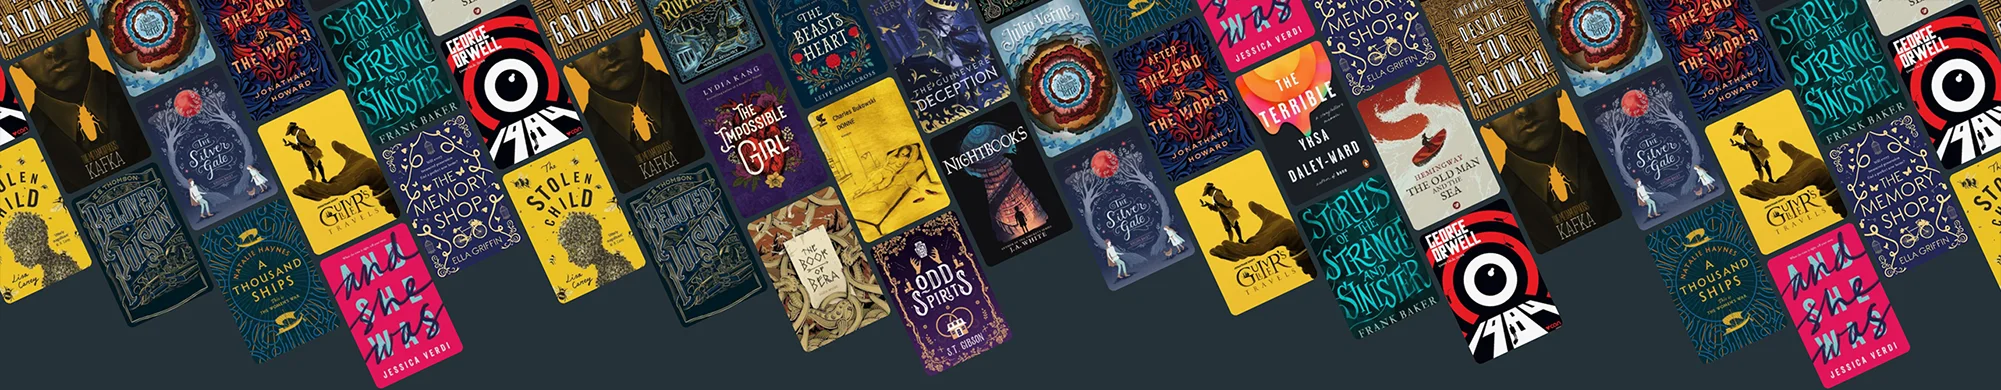
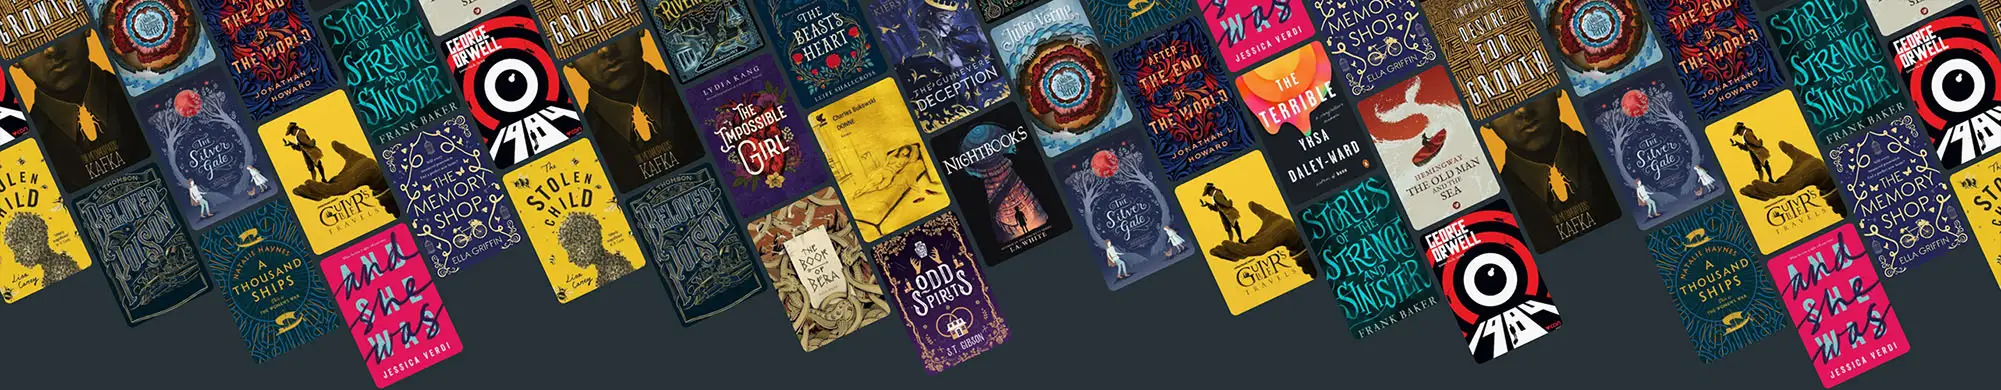
Webp images

diff --git a/src/components/pages/home.js b/src/components/pages/home.js
@@ -7,7 +7,7 @@ import { app, isTouchDevice, needsEmailVerification, screenSize } from '../../co
 import { funcType } from '../../config/types';
 import UserContext from '../../context/userContext';
 import '../../css/home.css';
-import bgHero_jpeg from '../../images/covers-dark.jpg';
+import bgHero_jpg from '../../images/covers-dark.jpg';
 import bgHero_webp from '../../images/covers-dark.webp';
 import Authors from '../authors';
 import BookCollection from '../bookCollection';
@@ -21,7 +21,7 @@ const seo = {
   title: `${app.name} | Home`,
   description: app.desc
 };
-const heroStyle = { backgroundImage: `url(${bgHero_webp}), url(${bgHero_jpeg})`, };
+const heroStyle = { backgroundImage: `url(${bgHero_webp}), url(${bgHero_jpg})`, };
 const rootMargin = '200px';
 
 const Home = props => {

diff --git a/webp.js b/webp.js
@@ -1,22 +1,22 @@
 // https://css-tricks.com/using-webp-images/
+const imagemin = require('imagemin');
+const webp = require('imagemin-webp');
 
-var imagemin = require("imagemin"),   // The imagemin module.
-  webp = require("imagemin-webp"),    // imagemin's WebP plugin.
-  PNGImages = "./src/images/*.png",   // PNG images
-  JPEGImages = "./src/images/*.jpg";  // JPEG images
+const PNGImages = './src/images/*.png';
+const JPEGImages = './src/images/*.jpg';
 
 imagemin([PNGImages], {
-  destination: "./src/images",
+  destination: './src/images',
   plugins: [webp({
     lossless: true,
   })]
 });
 
 imagemin([JPEGImages], {
-  destination: "./src/images",
+  destination: './src/images',
   plugins: [webp({
     quality: 65,
   })]
 });
 
-// run "node webp.js"
+// run 'node webp.js'

diff --git a/src/components/booksRowDivider.js b/src/components/booksRowDivider.js
@@ -1,7 +1,8 @@
 import React from 'react';
-import booksRowImage from '../images/books-row.png';
+import booksRowImage_jpg from '../images/books-row.png';
+import booksRowImage_webp from '../images/books-row.webp';
 
-const booksRowStyle = { backgroundImage: `url(${booksRowImage})` };
+const booksRowStyle = { backgroundImage: `url(${booksRowImage_webp}), url(${booksRowImage_jpg})`, };
 
 const BooksRowDivider = () => (
   <div className="pad-v hide-sm books-row-divider">
